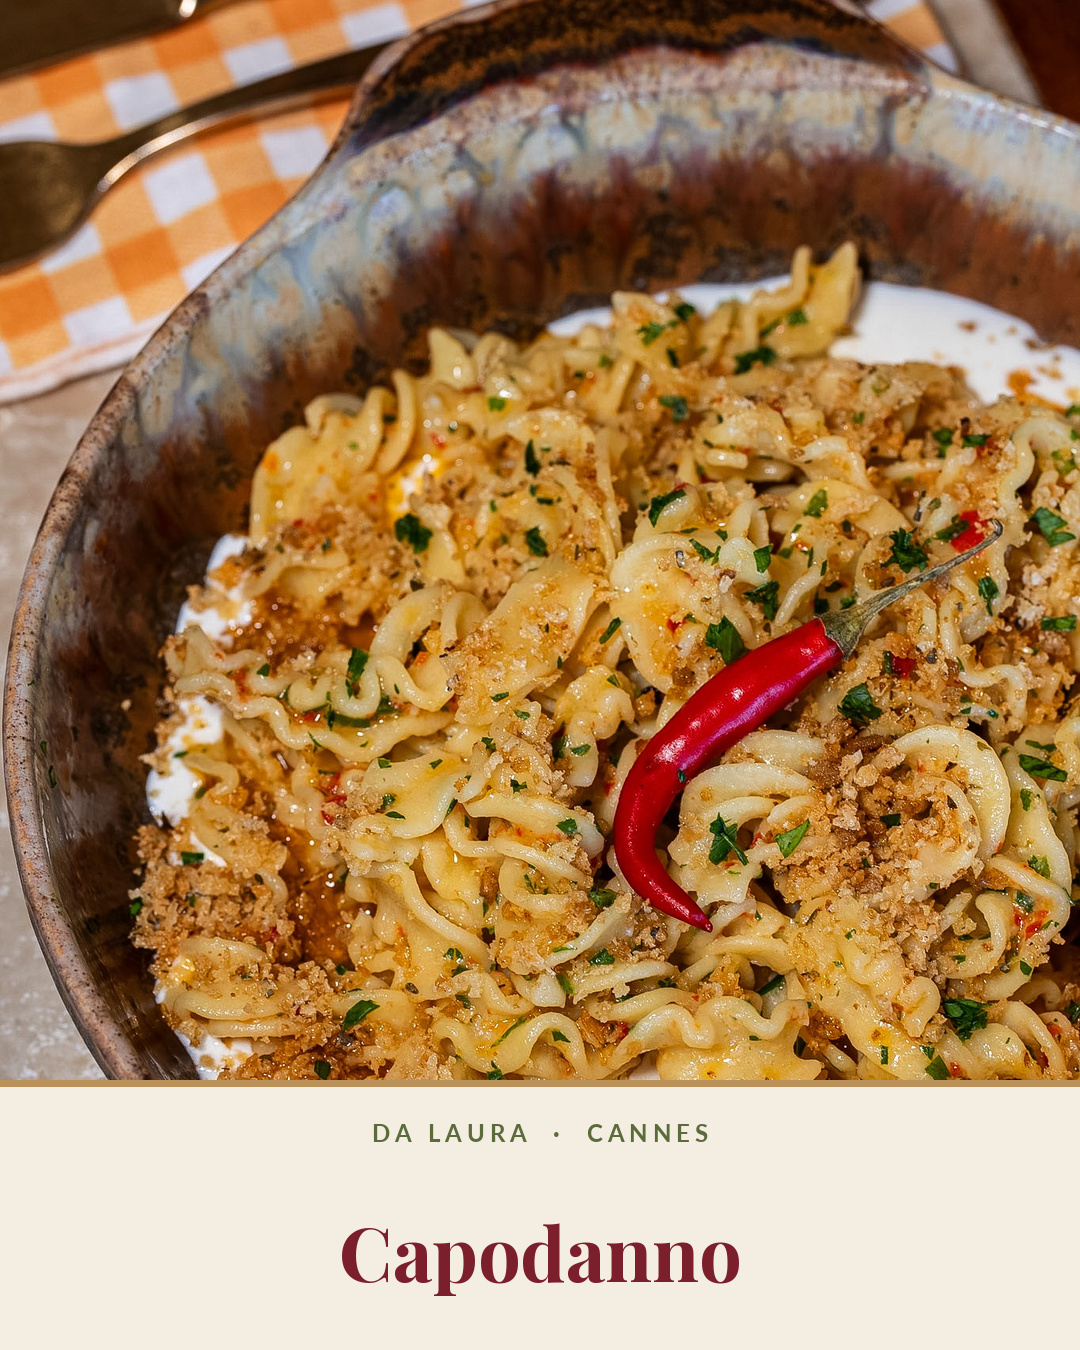
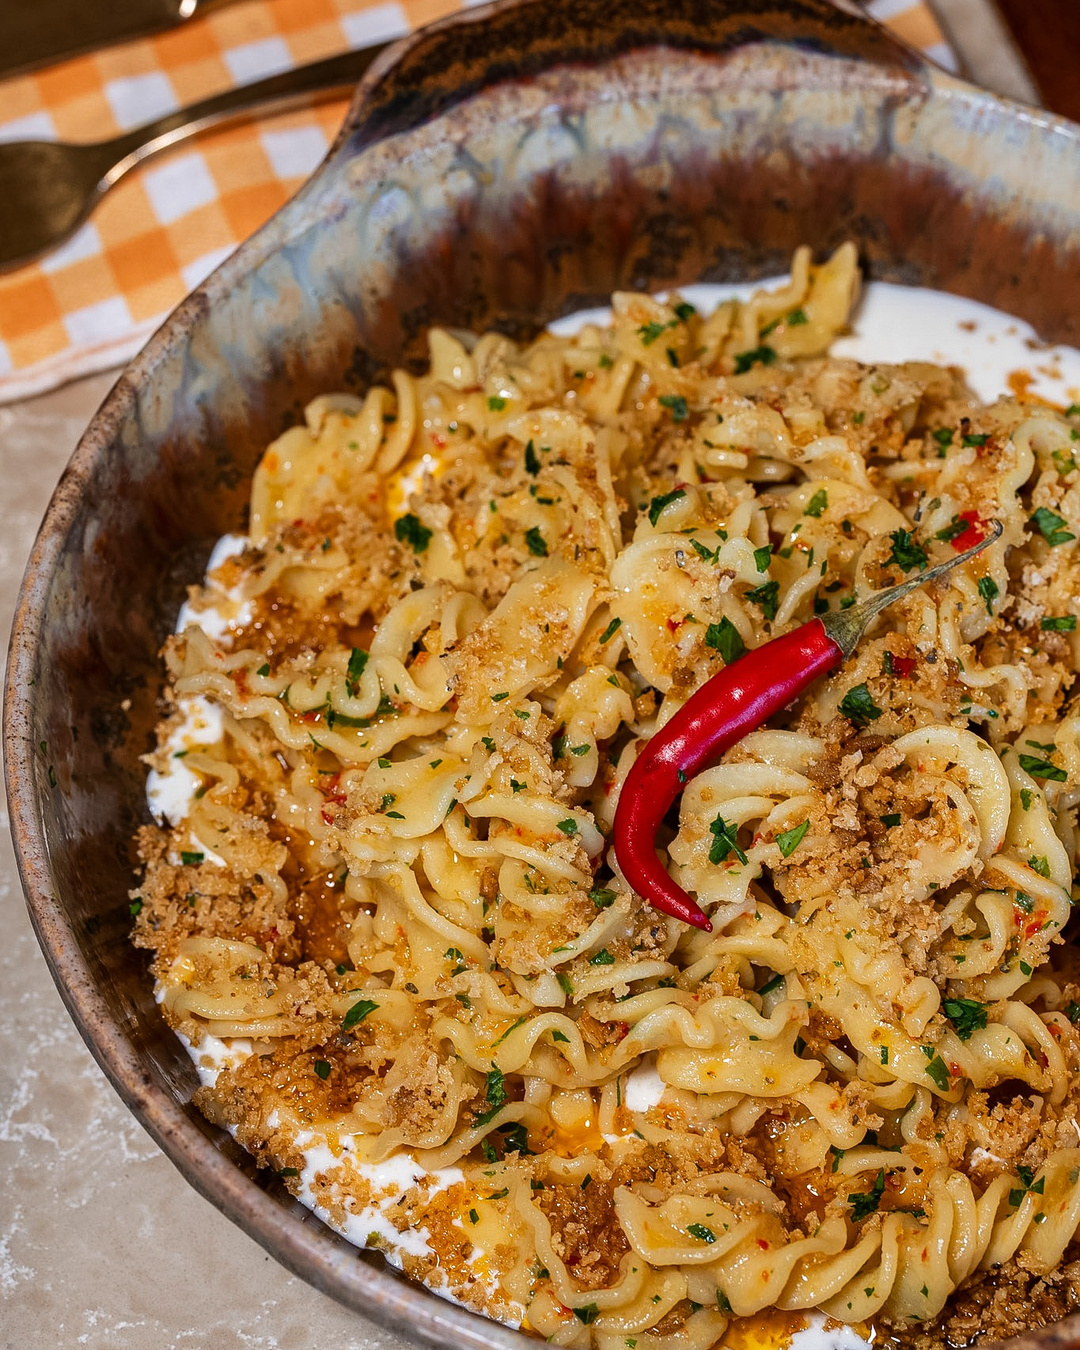
Publications sans bandeau ni texte (photos seules) ; post du 25 avec une photo non utilisée ailleurs
Claude-Session: https://claude.ai/code/session_01Ju11vapNNa6jvJp3cEzxBc

Changed region(s): [[0.0, 0.7778, 1.0, 1.0]]

diff --git a/outils/calendrier/da_laura_2026_12.py b/outils/calendrier/da_laura_2026_12.py
@@ -361,7 +361,7 @@ NOUVELLES = {
      "Les produits d'Italie, à la table de Da Laura. 🇮🇹\nProsciutto tranché minute, burrata crémeuse, antipasti à partager, citrons ensoleillés et truffe râpée : de beaux produits, travaillés simplement.\nGlisse pour les découvrir, et enregistre ce post pour ta prochaine envie d'Italie. 🌿"),
  21: (_c("palourdes", "langoustines-pates", "chef-spaghetti-crevettes", "huile-spaghetti-crevettes", "poelee-mer") + " — les plats de la mer de Da Laura",
      None),
- 25: (_c("salle-banquette-jaune") + " — la salle chaleureuse de Da Laura", None),
+ 25: (_c("terrasse-fauteuils") + " — le salon chaleureux de Da Laura, ambiance de fête", None),
  29: (_c("fusilli-piment", "tiramisu-fraise", "risotto-safran-jambon", "table-bougie", "poele-flambee") + " — une touche de rouge porte-bonheur et des plats de fête",
      "Comment fête-t-on le Nouvel An en Italie ? 🇮🇹\nOn porte une touche de rouge pour la chance, on partage un grand repas et on finit sur une note sucrée.\nGlisse pour notre version Da Laura, et dis-nous en commentaire ta tradition du 31. ✨"),
 }

diff --git a/outils/generer_visuels.py b/outils/generer_visuels.py
@@ -268,7 +268,10 @@ def main(csv_path, marque=None, sortie=None):
         mention = EVIN if "abus d'alcool" in r["Légende"] else None
         for i, ch in enumerate(chemins, 1):
             img, attente = fond(POST, trouver(ch), ch, desc)
-            img = bandeau_post(img, r["Texte visuel"], mention, petit=i > 1)
+            # Photos seules, sans bandeau ni texte (choix de l'utilisatrice, 27/11/2026).
+            # Seule exception : la mention loi Évin, obligatoire, ajoutée en petit bandeau.
+            if mention:
+                img = bandeau_post(img, r["Texte visuel"], mention, petit=True)
             enregistrer(img, dossier / f"visuel-{i:02d}.jpg")
             bilan["posts"] += 1
             bilan["attente"] += attente

diff --git a/calendriers/da-laura-2026-12.md b/calendriers/da-laura-2026-12.md
@@ -170,7 +170,7 @@ Formule Essentielle : 8 publications (5 carrousels, 3 posts), 2 réels (Instagra
 
 **Post · 10h00** · *La communauté*
 
-- **Photo / vidéo :** prête : `photos/da-laura/cannes/salle-banquette-jaune.jpg` (la salle chaleureuse de Da Laura)
+- **Photo / vidéo :** prête : `photos/da-laura/cannes/terrasse-fauteuils.jpg` (le salon chaleureux de Da Laura, ambiance de fête)
 - **Texte sur le visuel :** Buon Natale
 - **Légende :**
 
@@ -219,5 +219,5 @@ Voici la liste des prises de vue à réaliser, à déposer dans les sous-dossier
 | `cannes/trancheuse-prosciutto.jpg + cannes/burrata-prosciutto-gros-plan.jpg + cannes/planche-antipasti.jpg + cannes/burrata-tomates.jpg + cannes/chef-citrons.jpg + cannes/burrata-truffe.jpg` | prosciutto tranché, burrata, antipasti, citrons, truffe | 14/12 |
 | `cannes/palourdes.jpg + cannes/langoustines-pates.jpg + cannes/chef-spaghetti-crevettes.jpg + cannes/huile-spaghetti-crevettes.jpg + cannes/poelee-mer.jpg` | les plats de la mer de Da Laura | 21/12 |
 | `Réel réalisé par la community manager (Instagram + TikTok) : idée et légende proposées ci-dessous` |  | 23/12 |
-| `cannes/salle-banquette-jaune.jpg` | la salle chaleureuse de Da Laura | 25/12 |
+| `cannes/terrasse-fauteuils.jpg` | le salon chaleureux de Da Laura, ambiance de fête | 25/12 |
 | `cannes/fusilli-piment.jpg + cannes/tiramisu-fraise.jpg + cannes/risotto-safran-jambon.jpg + cannes/table-bougie.jpg + cannes/poele-flambee.jpg` | une touche de rouge porte-bonheur et des plats de fête | 29/12 |

diff --git a/CLAUDE.md b/CLAUDE.md
@@ -149,6 +149,7 @@ L'utilisatrice travaille sur iPad et ne navigue pas dans le dépôt Git. **Tout 
 
 - 8 publications : carrousels des 1, 8, 14, 21 et 29 décembre + posts des 3, 6 et 25 décembre. **2 réels** (créneaux du 9 et du 23 décembre, réalisés par l'utilisatrice). 20 stories : modèles « Piatti del giorno » à remplir.
 - Fermetures : 24 décembre au soir, 25 décembre toute la journée.
+- **Publications = photos seules** (27/11/2026) : aucun bandeau « DA LAURA · CANNES », aucun titre écrit sur les photos des posts et carrousels (sauf mention loi Évin obligatoire). Le titre ne sert que dans le calendrier.
 - Rejeté par l'utilisatrice, à ne plus proposer : réels « cartes flottantes / craie / fond flou », textes à la craie sur les réels.
 
 ## Décembre refait avec le shooting (27/11/2026)
